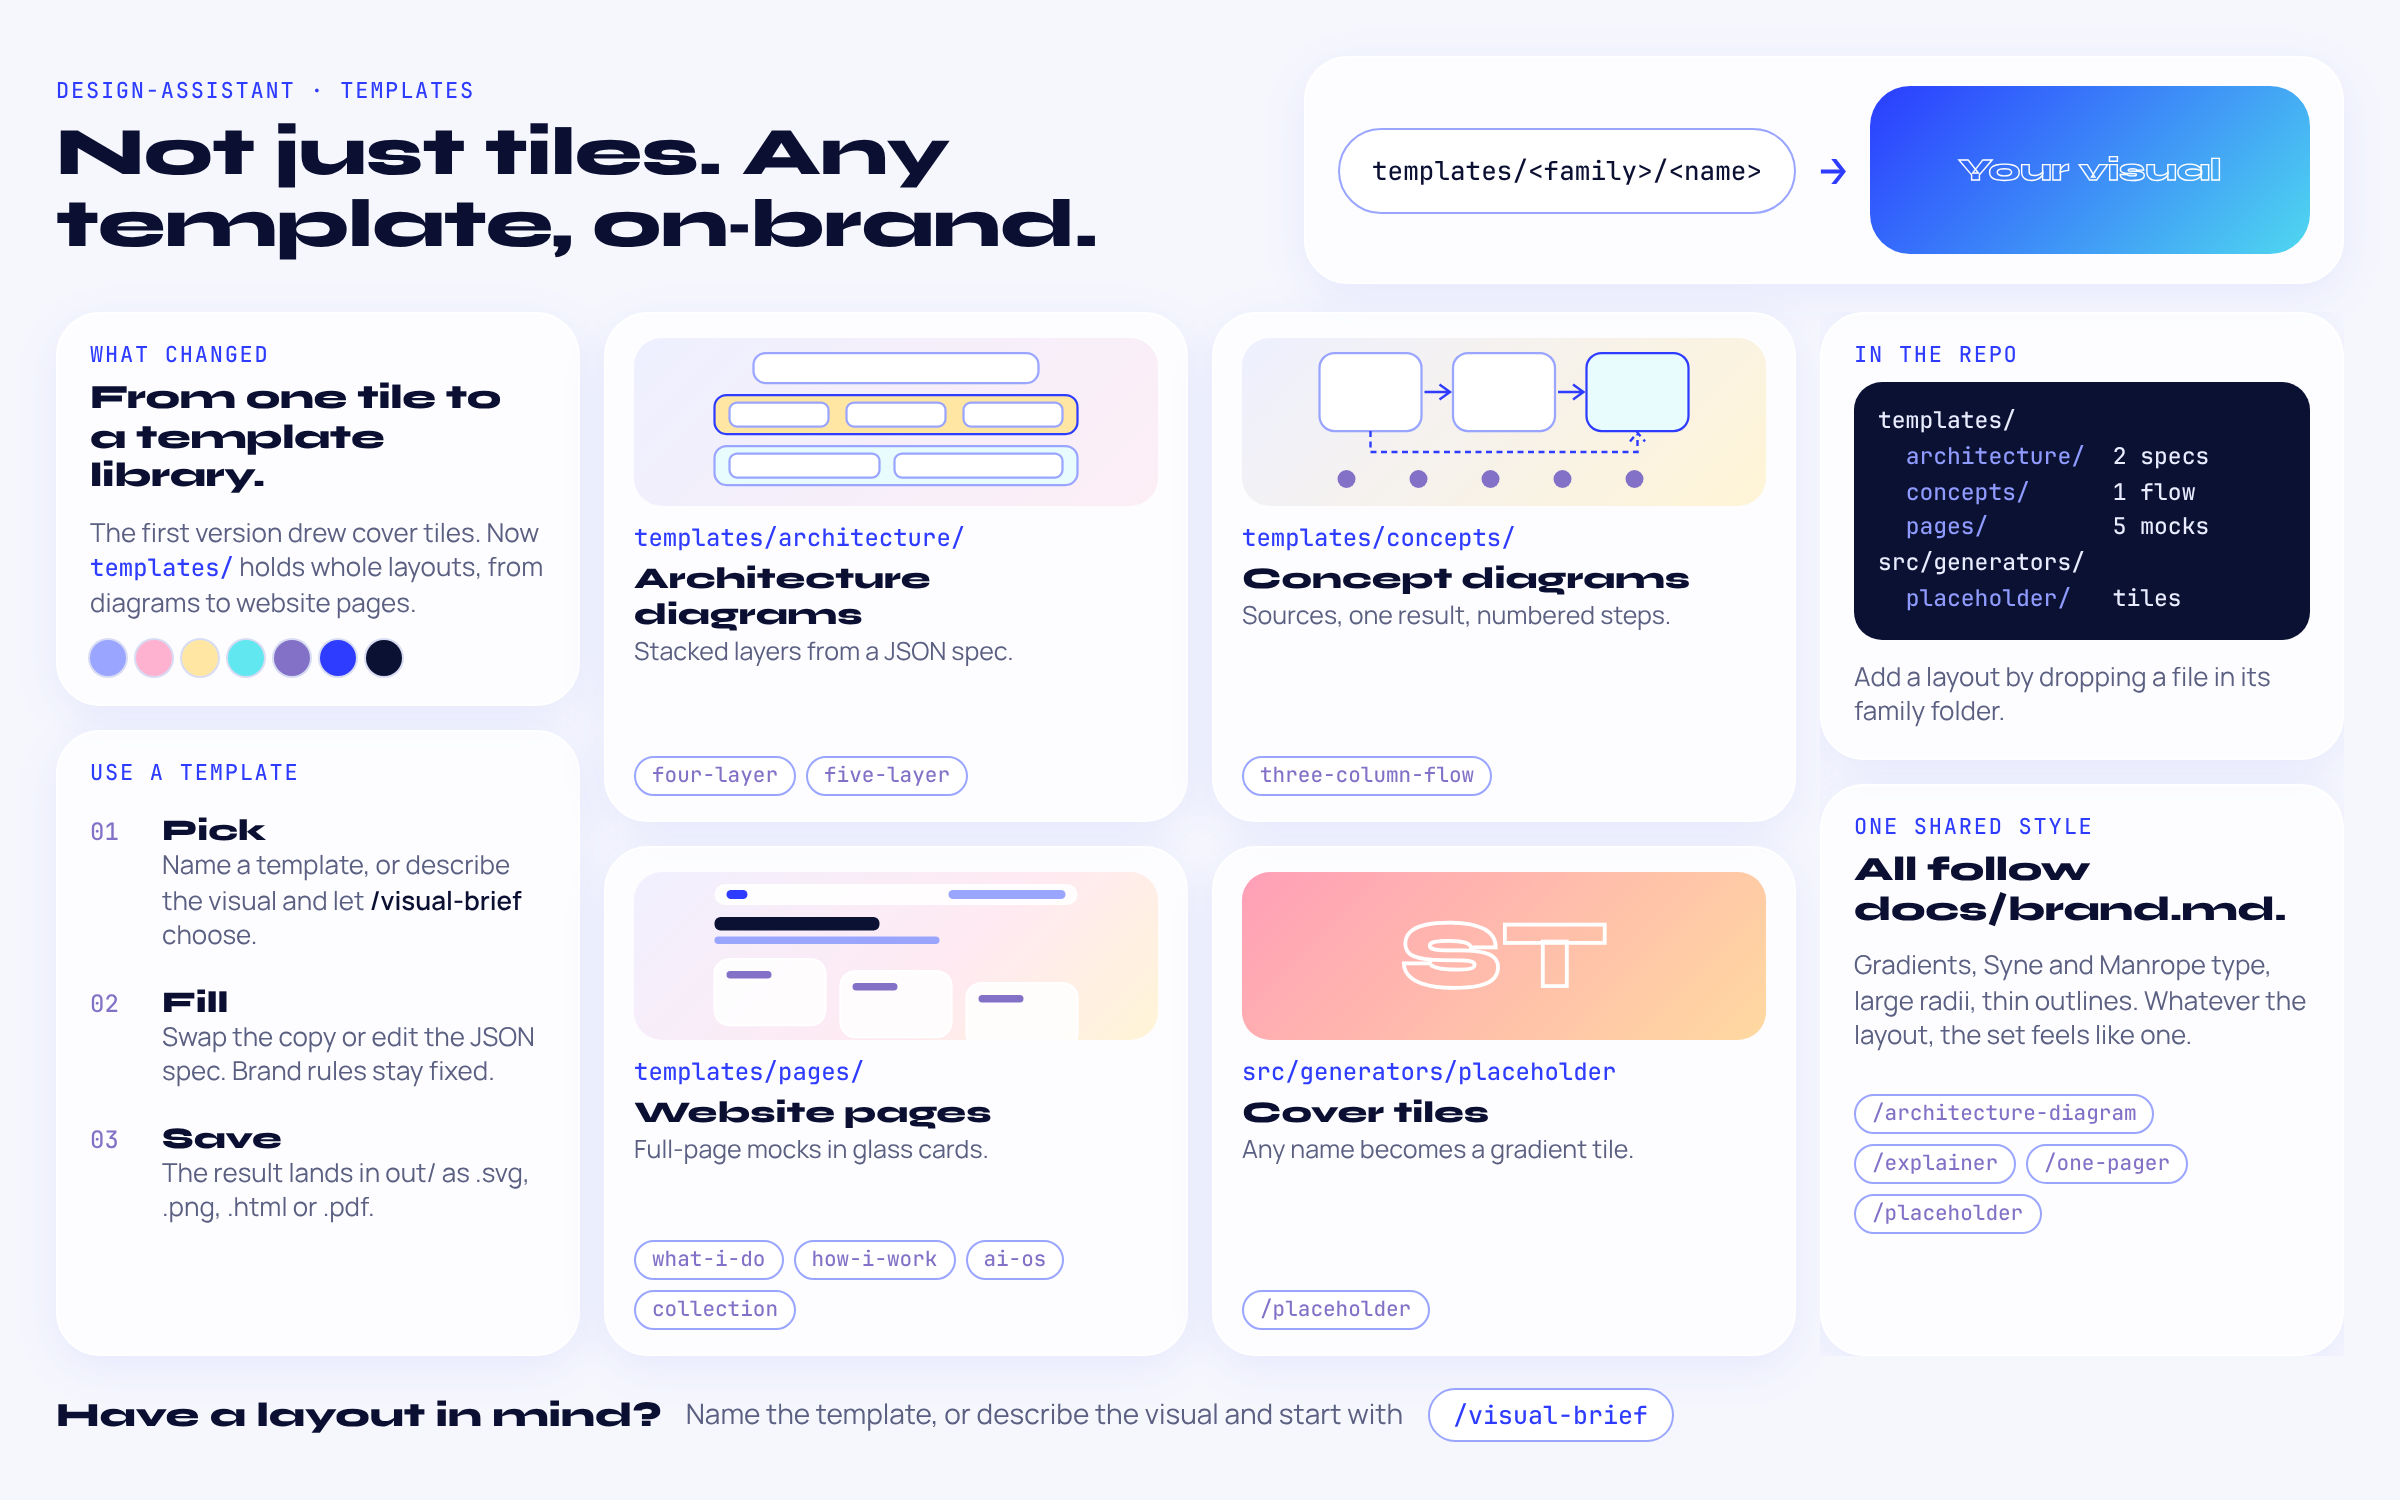
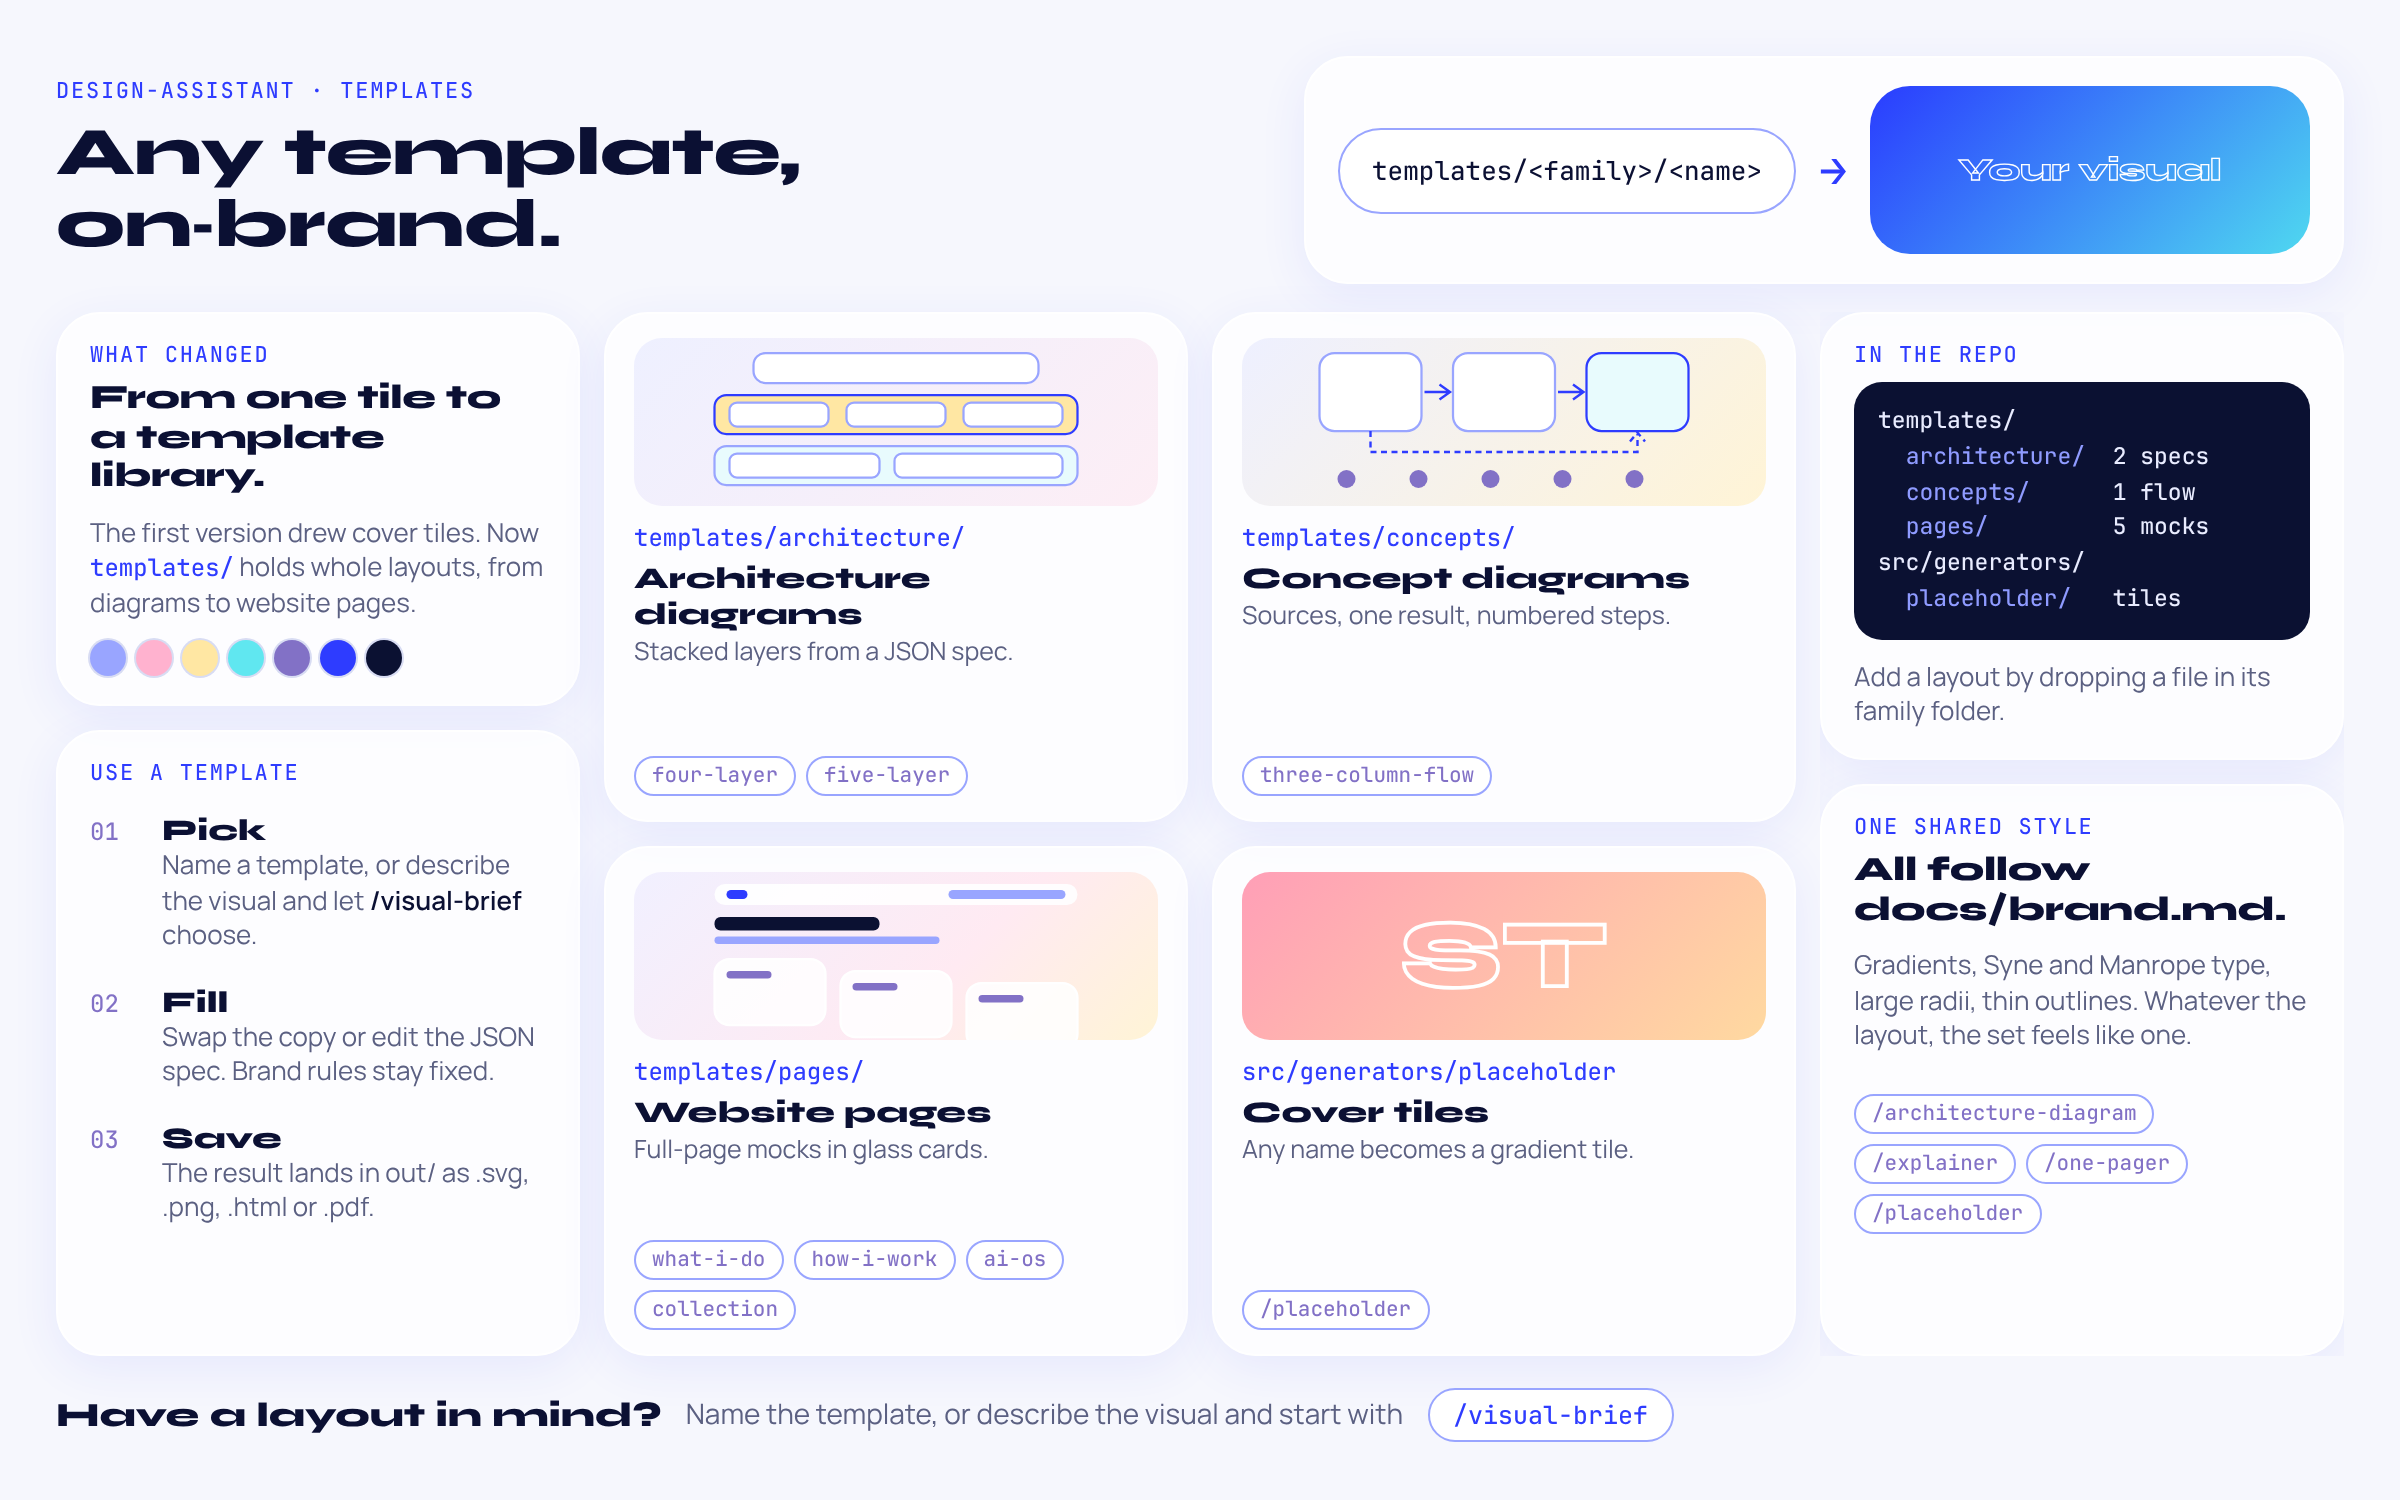
Simplify templates visual headline
Claude-Session: https://claude.ai/code/session_01MomxP6CV65kF2bbz4Ti1vR

Changed region(s): [[0.0312, 0.0613, 0.4688, 0.184]]

diff --git a/docs/design-assistant-templates-card.html b/docs/design-assistant-templates-card.html
@@ -48,7 +48,7 @@ pre i{font-style:normal;color:#8f9bff}
 </head>
 <body>
 <div class="head">
-  <div><div class="tag">design-assistant &middot; templates</div><h1>Not just tiles. Any template, on&#8209;brand.</h1></div>
+  <div><div class="tag">design-assistant &middot; templates</div><h1>Any template, on&#8209;brand.</h1></div>
   <div class="card hero"><div class="pill">templates/&lt;family&gt;/&lt;name&gt;</div><div class="arrow">&rarr;</div>
     <div class="tile"><svg viewBox="0 0 220 40" role="img" aria-label="Your visual"><text x="110" y="28" text-anchor="middle" font-family="Syne" font-weight="800" font-size="23" fill="none" stroke="#fff" stroke-width="1">Your visual</text></svg></div></div>
 </div>
